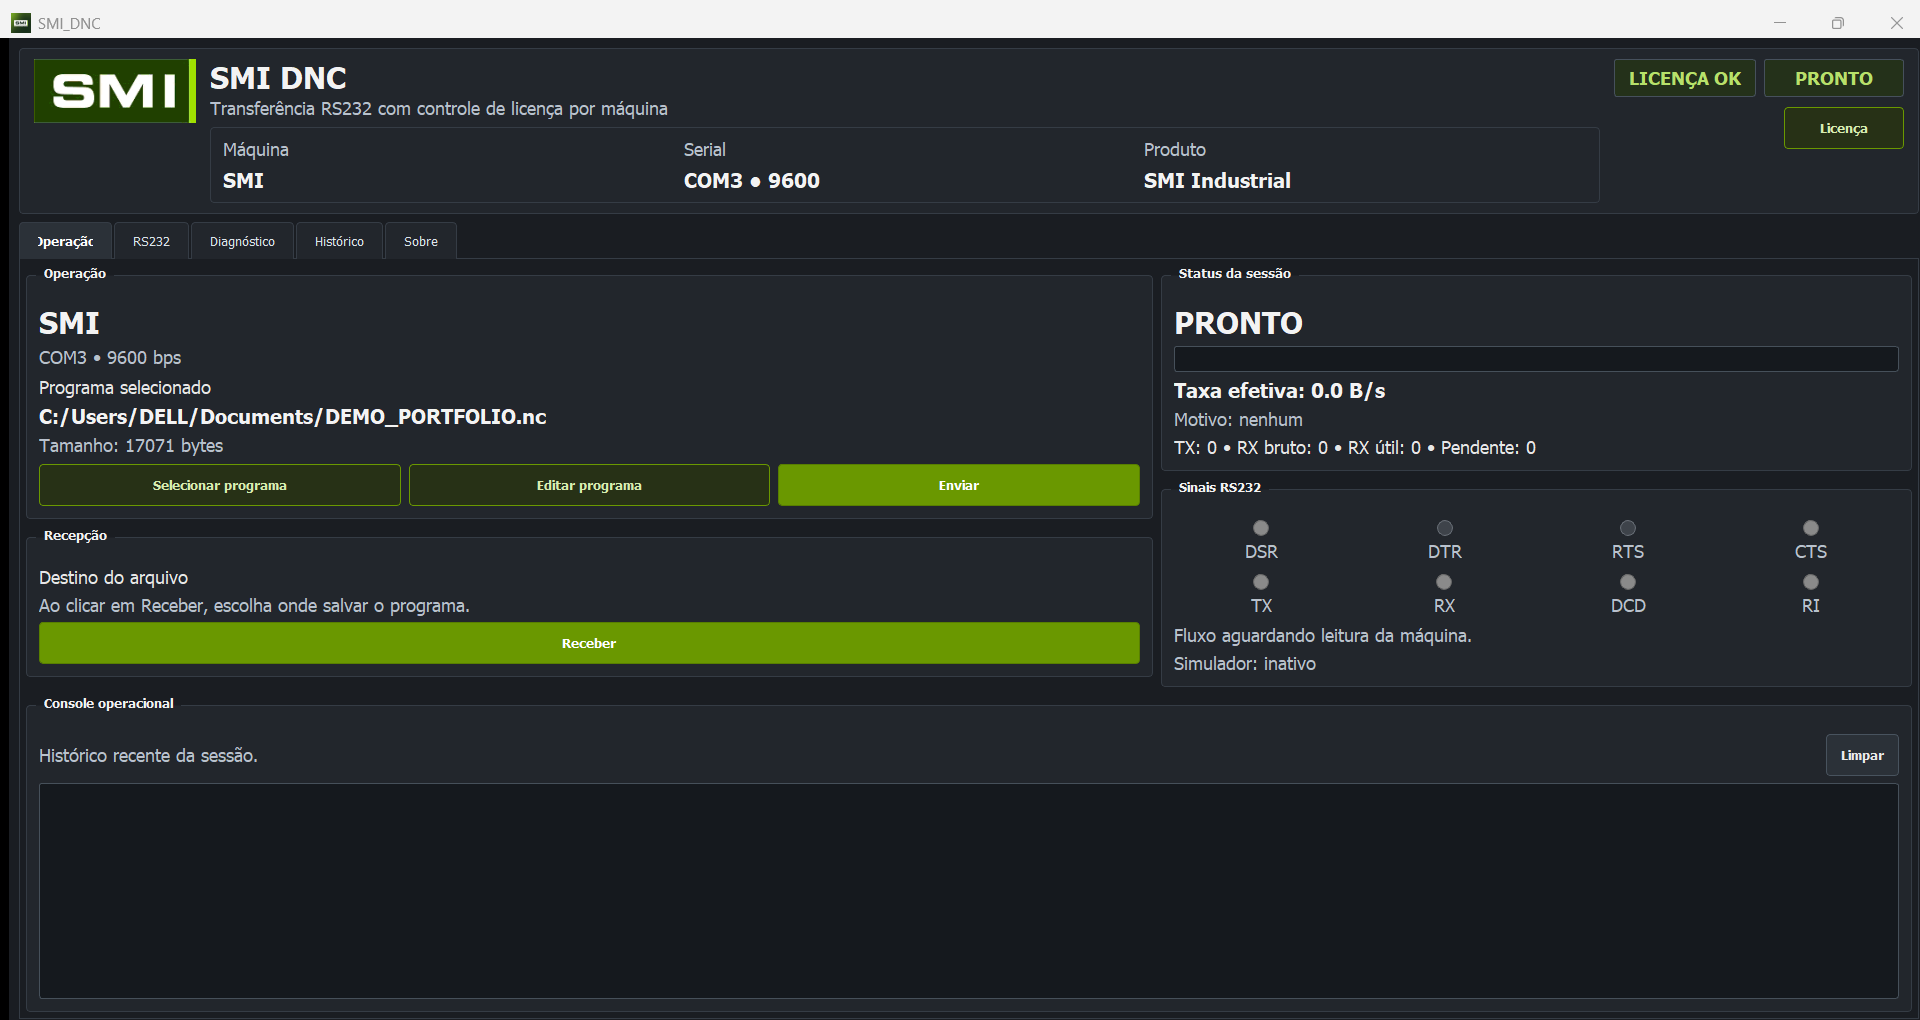
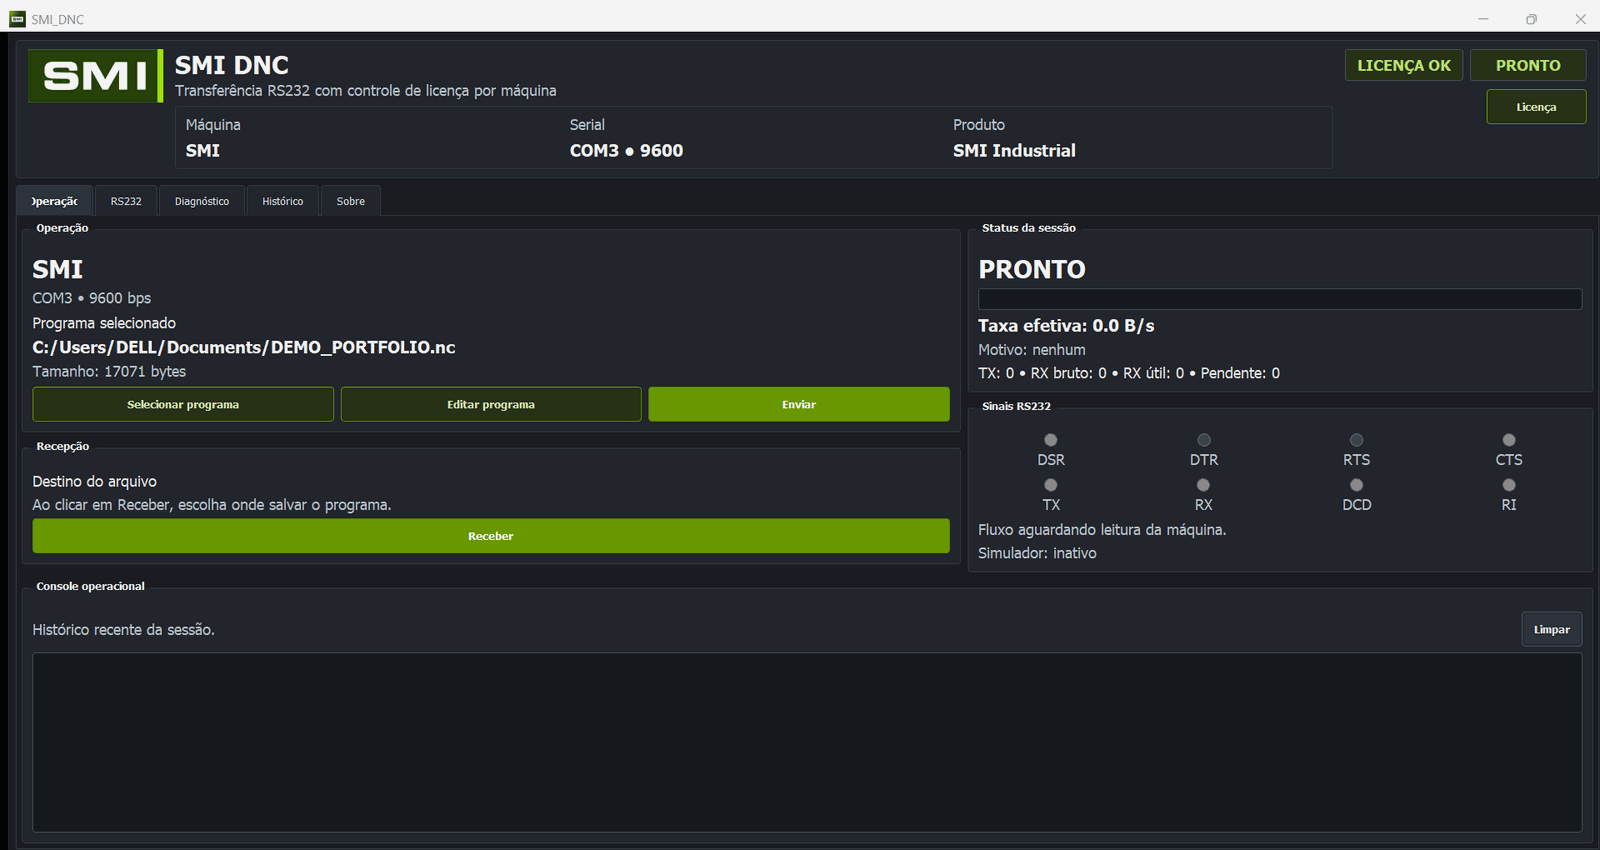
Add real screenshots of all three systems, plus photo and figures
Eight captures from the DNC, MAIA and SMI Files, grouped by system, and a
band of real numbers taken from the technical base panel.

Left out three screenshots that could not be published: customer names in
the work-order list, an employee name and payroll number in the time
entries, and the product pricing page.

diff --git a/pt.html b/pt.html
@@ -65,7 +65,7 @@
           <a class="btn" href="#demos">Experimentar agora</a>
         </p>
       </div>
-      <div class="avatar-ph" aria-hidden="true">sua foto<br>entra aqui</div>
+      <img class="avatar" src="./assets/kaiki.jpg" alt="Kaiki Quadros Ferreira" width="440" height="440">
     </div>
   </section>
 
@@ -74,27 +74,67 @@
     <div class="wrap">
       <h2 class="band-title">O software, rodando</h2>
       <p class="band-lede">
-        Telas reais do DNC que uso todo dia na SMI — não é maquete.
+        Telas reais dos sistemas em uso na SMI — não são maquetes. Clique para ampliar.
       </p>
 
-      <div class="shots">
-        <figure class="shot">
-          <img src="./assets/dnc-operacao.png" alt="Tela de operação do SMI DNC: programa carregado, status da sessão, taxa efetiva e LEDs dos sinais RS-232" loading="lazy">
-          <figcaption>
-            <b>Operação</b>
-            Programa carregado e pronto para enviar. À direita, os oito sinais da linha RS-232
-            monitorados ao vivo — é por eles que o software sabe se a máquina está aguentando.
-          </figcaption>
-        </figure>
+      <div class="figures">
+        <div class="fig"><b>18.299</b><span>documentos processados pela IA</span></div>
+        <div class="fig"><b>1.038.300</b><span>trechos indexados para busca</span></div>
+        <div class="fig"><b>14</b><span>marcas de máquina atendidas</span></div>
+        <div class="fig"><b>9</b><span>sistemas construídos sozinho</span></div>
+      </div>
 
+      <div class="shot-group">
+        <h3>DNC<span class="st">C++ · Qt · RS-232</span></h3>
+        <p class="gl">O software que conversa com a máquina pela porta serial.</p>
+        <div class="shots-2">
+          <figure class="shot">
+            <img src="./assets/dnc-operacao.png" alt="Tela de operação do DNC: programa carregado, status da sessão e LEDs dos sinais RS-232" loading="lazy">
+            <figcaption><b>Operação</b>Os oito sinais da linha RS-232 monitorados ao vivo — é por eles que o software sabe se a máquina está aguentando.</figcaption>
+          </figure>
+          <figure class="shot">
+            <img src="./assets/dnc-rs232.png" alt="Configuração RS-232: baud, paridade, controle de fluxo, EOF, buffers e timing" loading="lazy">
+            <figcaption><b>Configuração por máquina</b>Cada CNC quer uma combinação diferente. Buffers, controle de fluxo e leitura de sinais a cada 1&nbsp;ms.</figcaption>
+          </figure>
+        </div>
+      </div>
+
+      <div class="shot-group">
+        <h3>MAIA<span class="st">FastAPI · RAG · Flutter</span></h3>
+        <p class="gl">A assistente que responde dúvidas técnicas a partir do acervo da empresa.</p>
         <figure class="shot">
-          <img src="./assets/dnc-rs232.png" alt="Tela de configuração RS-232 do SMI DNC: baud rate, paridade, controle de fluxo, EOF, buffers e timing" loading="lazy">
-          <figcaption>
-            <b>Configuração da máquina</b>
-            Cada CNC quer uma combinação diferente. Baud, paridade, controle de fluxo,
-            caractere de fim de arquivo, tamanho de buffer e leitura de sinais a cada 1&nbsp;ms.
-          </figcaption>
+          <img src="./assets/maia-apresentacao.jpg" alt="Apresentação da MAIA com exemplo de pergunta sobre alarme SV0433 em comando Fanuc e a resposta técnica" loading="lazy">
+          <figcaption><b>A pergunta que o técnico faz de verdade</b>“No Fanuc, alarme SV0433 no eixo X” — e a resposta chega em passos verificáveis, não em texto genérico.</figcaption>
         </figure>
+        <div class="shots-2">
+          <figure class="shot">
+            <img src="./assets/maia-base-tecnica.png" alt="Painel da base técnica: 18.299 documentos processados, 18.272 fontes ativas e 1.038.300 trechos indexados" loading="lazy">
+            <figcaption><b>Base técnica</b>Cada documento passa por revisão humana antes de entrar no índice. Nada é indexado só por estar numa pasta.</figcaption>
+          </figure>
+          <figure class="shot">
+            <img src="./assets/maia-chat.png" alt="Tela inicial do chat técnico da MAIA com sugestões de perguntas sobre encoder, servo drive e alarmes" loading="lazy">
+            <figcaption><b>Chat técnico</b>As sugestões pedem fabricante e modelo de propósito — pergunta vaga puxa fonte errada.</figcaption>
+          </figure>
+        </div>
+        <figure class="shot" style="margin-top:18px">
+          <img src="./assets/maia-mobile.jpg" alt="Três telas do aplicativo móvel: resposta com fontes, painel operacional e projetos por máquina" loading="lazy">
+          <figcaption><b>No bolso do técnico</b>O mesmo sistema no celular, onde o problema acontece — com resposta, painel e conversas organizadas por máquina.</figcaption>
+        </figure>
+      </div>
+
+      <div class="shot-group">
+        <h3>SMI Files<span class="st">Flutter · Supabase · offline-first</span></h3>
+        <p class="gl">Ordens de serviço e o registro fotográfico do que foi consertado.</p>
+        <div class="shots-2">
+          <figure class="shot">
+            <img src="./assets/smifiles-home.png" alt="Tela inicial do SMI Files com ações para criar ordem de serviço, explorar OS e abrir checklists" loading="lazy">
+            <figcaption><b>Início</b>Criar OS, explorar as existentes e manter os checklists — em duas telas de distância.</figcaption>
+          </figure>
+          <figure class="shot">
+            <img src="./assets/smifiles-midias.jpg" alt="Galeria de 28 fotos de um inversor de frequência em manutenção, organizadas dentro de uma ordem de serviço" loading="lazy">
+            <figcaption><b>Registro da OS</b>28 fotos de um inversor aberto na bancada. É esse registro que sustenta o laudo e o orçamento depois.</figcaption>
+          </figure>
+        </div>
       </div>
     </div>
   </section>

diff --git a/index.html b/index.html
@@ -65,7 +65,7 @@
           <a class="btn" href="#demos">Try it now</a>
         </p>
       </div>
-      <div class="avatar-ph" aria-hidden="true">your photo<br>goes here</div>
+      <img class="avatar" src="./assets/kaiki.jpg" alt="Kaiki Quadros Ferreira" width="440" height="440">
     </div>
   </section>
 
@@ -74,27 +74,67 @@
     <div class="wrap">
       <h2 class="band-title">The software, running</h2>
       <p class="band-lede">
-        Real screens from the DNC in daily use at SMI — not a mockup.
+        Real screens from the systems in daily use at SMI — not mockups. Click to enlarge.
       </p>
 
-      <div class="shots">
-        <figure class="shot">
-          <img src="./assets/dnc-operacao.png" alt="SMI DNC operation screen: loaded program, session status, effective rate and RS-232 signal LEDs" loading="lazy">
-          <figcaption>
-            <b>Operation</b>
-            A program loaded and ready to send. On the right, the eight RS-232 line signals monitored
-            live — they are how the software knows whether the machine is keeping up.
-          </figcaption>
-        </figure>
+      <div class="figures">
+        <div class="fig"><b>18.299</b><span>documents processed by the AI</span></div>
+        <div class="fig"><b>1.038.300</b><span>passages indexed for retrieval</span></div>
+        <div class="fig"><b>14</b><span>machine brands supported</span></div>
+        <div class="fig"><b>9</b><span>systems built single-handed</span></div>
+      </div>
 
+      <div class="shot-group">
+        <h3>DNC<span class="st">C++ · Qt · RS-232</span></h3>
+        <p class="gl">The software that talks to the machine down the serial port.</p>
+        <div class="shots-2">
+          <figure class="shot">
+            <img src="./assets/dnc-operacao.png" alt="DNC operation screen: loaded program, session status and RS-232 signal LEDs" loading="lazy">
+            <figcaption><b>Operation</b>The eight RS-232 line signals monitored live — they are how the software knows whether the machine is keeping up.</figcaption>
+          </figure>
+          <figure class="shot">
+            <img src="./assets/dnc-rs232.png" alt="RS-232 settings: baud, parity, flow control, EOF, buffers and timing" loading="lazy">
+            <figcaption><b>Per-machine settings</b>Every CNC wants a different combination. Buffers, flow control, and signal polling every 1&nbsp;ms.</figcaption>
+          </figure>
+        </div>
+      </div>
+
+      <div class="shot-group">
+        <h3>MAIA<span class="st">FastAPI · RAG · Flutter</span></h3>
+        <p class="gl">The assistant that answers technical questions from the company archive.</p>
         <figure class="shot">
-          <img src="./assets/dnc-rs232.png" alt="SMI DNC RS-232 settings: baud rate, parity, flow control, EOF, buffers and timing" loading="lazy">
-          <figcaption>
-            <b>Per-machine settings</b>
-            Every CNC wants a different combination. Baud, parity, flow control, end-of-file
-            character, buffer sizes, and signal polling every 1&nbsp;ms.
-          </figcaption>
+          <img src="./assets/maia-apresentacao.jpg" alt="MAIA overview showing a question about alarm SV0433 on a Fanuc control and the technical answer" loading="lazy">
+          <figcaption><b>The question a technician actually asks</b>“Fanuc, alarm SV0433 on the X axis” — and the answer comes back as checkable steps, not generic prose.</figcaption>
         </figure>
+        <div class="shots-2">
+          <figure class="shot">
+            <img src="./assets/maia-base-tecnica.png" alt="Technical base panel: 18,299 documents processed, 18,272 active sources and 1,038,300 indexed passages" loading="lazy">
+            <figcaption><b>Technical base</b>Every document passes human review before entering the index. Nothing is indexed just for sitting in a folder.</figcaption>
+          </figure>
+          <figure class="shot">
+            <img src="./assets/maia-chat.png" alt="MAIA technical chat home screen with suggested questions about encoders, servo drives and alarms" loading="lazy">
+            <figcaption><b>Technical chat</b>The prompts ask for make and model on purpose — a vague question pulls the wrong source.</figcaption>
+          </figure>
+        </div>
+        <figure class="shot" style="margin-top:18px">
+          <img src="./assets/maia-mobile.jpg" alt="Three mobile app screens: answer with sources, operational dashboard, and projects by machine" loading="lazy">
+          <figcaption><b>In the technician pocket</b>The same system on the phone, where the problem happens — answers, dashboard, and conversations organised by machine.</figcaption>
+        </figure>
+      </div>
+
+      <div class="shot-group">
+        <h3>SMI Files<span class="st">Flutter · Supabase · offline-first</span></h3>
+        <p class="gl">Work orders and the photographic record of what was repaired.</p>
+        <div class="shots-2">
+          <figure class="shot">
+            <img src="./assets/smifiles-home.png" alt="SMI Files home screen with actions to create a work order, browse existing ones and open checklists" loading="lazy">
+            <figcaption><b>Home</b>Create a work order, browse the existing ones, and maintain the checklists — two screens away.</figcaption>
+          </figure>
+          <figure class="shot">
+            <img src="./assets/smifiles-midias.jpg" alt="Gallery of 28 photos of a frequency inverter under repair, organised inside a work order" loading="lazy">
+            <figcaption><b>The work-order record</b>28 photos of an inverter opened on the bench. This record is what backs the report and the quote afterwards.</figcaption>
+          </figure>
+        </div>
       </div>
     </div>
   </section>

diff --git a/styles.css b/styles.css
@@ -577,3 +577,36 @@ details.more .more-body p:last-child { margin-bottom: 0; }
   letter-spacing: .09em; color: var(--fg-faint);
   margin: 30px 0 12px;
 }
+
+/* --- vitrine v3: galeria por sistema + numeros --- */
+.shot-group { margin-bottom: 34px; }
+.shot-group:last-child { margin-bottom: 0; }
+.shot-group > h3 {
+  margin: 0 0 4px; font-size: 1.05rem; letter-spacing: -.015em;
+}
+.shot-group > h3 .st {
+  font-family: var(--mono); font-size: 11.5px; font-weight: 400;
+  color: var(--fg-faint); margin-left: 9px;
+}
+.shot-group > p.gl {
+  margin: 0 0 16px; font-size: 14.5px; color: var(--fg-muted); max-width: 68ch;
+}
+.shots-2 { display: grid; gap: 18px; grid-template-columns: 1fr; }
+@media (min-width: 820px) { .shots-2 { grid-template-columns: 1fr 1fr; } }
+
+/* faixa de numeros reais */
+.figures {
+  display: grid; gap: 16px; margin: 0 0 34px;
+  grid-template-columns: repeat(2, 1fr);
+}
+@media (min-width: 700px) { .figures { grid-template-columns: repeat(4, 1fr); } }
+.fig {
+  border: 1px solid var(--line); border-radius: var(--radius);
+  padding: 16px 18px; background: var(--bg);
+}
+.fig b {
+  display: block; font-family: var(--mono);
+  font-size: 1.5rem; line-height: 1.1; font-weight: 500;
+  color: var(--accent); letter-spacing: -.02em;
+}
+.fig span { font-size: 12.5px; color: var(--fg-muted); display: block; margin-top: 5px; }
